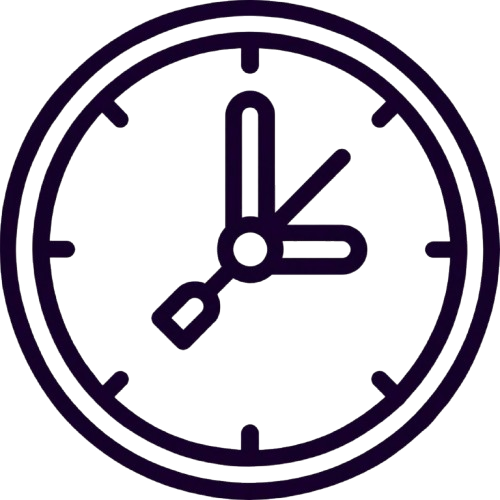
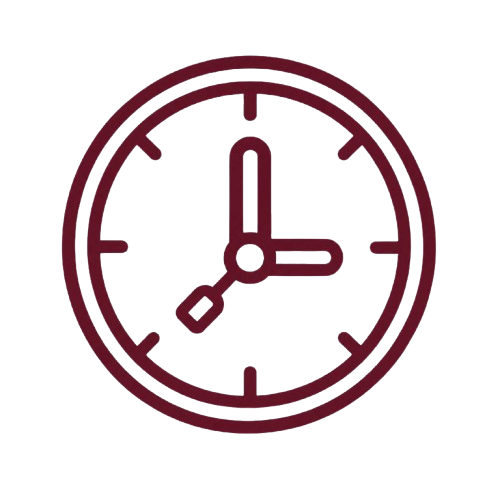
almost finishing user panel

diff --git a/userpanel/panel_options/dashboard.py b/userpanel/panel_options/dashboard.py
@@ -7,6 +7,7 @@ from options.back import *
 from userpanel.time import *
 from back_panel.card1 import *
 from userpanel.panel_options.treeveiw import *
+from userpanel.panel_options.search import se
 FRAMES="#5A1E2A"
 TEXTS="#F7F1E5"
 ENTRIE="#89977D"
@@ -33,33 +34,43 @@ def dash(fr2pw,userc):
     lbl1.place(x=50,y=100)
     entry=CTkEntry(fr2pw,fg_color=TEXTS,text_color=FRAMES,placeholder_text="search your post... ",placeholder_text_color=PLACETEXTS,border_color=PLACETEXTS,border_width=3,font=("GROSTE",15),width=200,height=50,corner_radius=16,textvariable=s_var)
     entry.place(x=370,y=40)
-    # entry.bind("<KeyRelease>", lambda event: search(event, userc))
-    cards3(fr2pw,userc)
+    entry.bind("<KeyRelease>", lambda event: se(s_var, userc,tr,event))
+    tr=cards3(fr2pw,userc)
 def cards3(fr2pw,userc):
     pack=openj()
     packs=len(readj(pack,userc))
-    fr1=CTkFrame(fr2pw,corner_radius=13,width=160,height=160,fg_color=TEXTS,border_color=FRAMES,border_width=3)
-    fr1.place(x=90,y=150)
-    fr2=CTkFrame(fr2pw,corner_radius=16,width=160,height=160,fg_color=TEXTS,border_color=FRAMES,border_width=3)
-    fr2.place(x=280,y=150)
-    fr3=CTkFrame(fr2pw,corner_radius=16,width=160,height=160,fg_color=TEXTS,border_color=FRAMES,border_width=3)
-    fr3.place(x=470,y=150)
-    lbl=CTkLabel(fr1,text="All packages",text_color=FRAMES,font=("Pixelhands",20))
-    lbl.place(y=130,relx=0.5,anchor="center")
-    lbl1=CTkLabel(fr2,text="On the way",text_color=FRAMES,font=("Pixelhands",20))
-    lbl1.place(y=130,relx=0.5,anchor="center")
-    lbl2=CTkLabel(fr3,text="Delivered",text_color=FRAMES,font=("Pixelhands",20))
-    lbl2.place(y=130,relx=0.5,anchor="center")
-    tick=load_photo("assests/images/tick.png",fr1,(30,30),widget="label",corner=30)
+    fr1=CTkFrame(fr2pw,corner_radius=13,width=130,height=130,fg_color=TEXTS,border_color=FRAMES,border_width=3)
+    fr1.place(x=30,y=170)
+    fr2=CTkFrame(fr2pw,corner_radius=16,width=130,height=130,fg_color=TEXTS,border_color=FRAMES,border_width=3)
+    fr2.place(x=200,y=170)
+    fr3=CTkFrame(fr2pw,corner_radius=16,width=130,height=130,fg_color=TEXTS,border_color=FRAMES,border_width=3)
+    
+    fr3.place(x=370,y=170)
+    fr4=CTkFrame(fr2pw,corner_radius=16,width=130,height=130,fg_color=TEXTS,border_color=FRAMES,border_width=3)
+    fr4.place(x=540,y=170)
+    lbl=CTkLabel(fr1,text="All packages",text_color=FRAMES,font=("Pixelhands",15))
+    lbl.place(y=100,relx=0.5,anchor="center")
+    lbl1=CTkLabel(fr2,text="On the way",text_color=FRAMES,font=("Pixelhands",15))
+    lbl1.place(y=100,relx=0.5,anchor="center")
+    lbl2=CTkLabel(fr3,text="Delivered",text_color=FRAMES,font=("Pixelhands",15))
+    lbl2.place(y=100,relx=0.5,anchor="center")
+    lbl3=CTkLabel(fr4,text="Unknown",text_color=FRAMES,font=("Pixelhands",15))
+    lbl3.place(y=100,relx=0.5,anchor="center")
+    tick=load_photo("assests/images/tick.png",fr1,(35,35),widget="label",corner=30)
     tick.place(y=20,x=10)
     track=load_photo("assests/images/track.png",fr2,(35,35),widget="label",corner=30)
     track.place(y=20,x=10)
-    clock=load_photo("assests/images/clock.png",fr3,(30,30),widget="label",corner=30)
+    clock=load_photo("assests/images/clock.png",fr3,(35,35),widget="label",corner=30)
     clock.place(y=20,x=10)
-    lbl3=CTkLabel(fr1,text=packs,text_color=FRAMES,font=("Pixelhands",40))
-    lbl3.place(y=50,x=100)
-    lbl4=CTkLabel(fr2,text="",text_color=FRAMES,font=("Pixelhands",40))
-    lbl4.place(y=50,x=100)
-    lbl5=CTkLabel(fr3,text="",text_color=FRAMES,font=("Pixelhands",40))
-    lbl5.place(y=50,x=100)
-    treeveiw(fr2pw,userc)
+    que=load_photo("assests/images/que.png",fr4,(35,35),widget="label",corner=30)
+    que.place(y=20,x=10)
+    lbl3=CTkLabel(fr1,text=packs,text_color=FRAMES,font=("Pixelhands",30))
+    lbl3.place(y=50,x=90)
+    lbl4=CTkLabel(fr2,text="",text_color=FRAMES,font=("Pixelhands",30))
+    lbl4.place(y=50,x=90)
+    lbl5=CTkLabel(fr3,text="",text_color=FRAMES,font=("Pixelhands",30))
+    lbl5.place(y=50,x=90)
+    lbl6=CTkLabel(fr4,text="",text_color=FRAMES,font=("Pixelhands",30))
+    lbl6.place(y=50,x=90)
+    tr=treeveiw(fr2pw,userc)
+    return tr

diff --git a/userpanel/upanel.py b/userpanel/upanel.py
@@ -42,8 +42,8 @@ def buttonsfr1(fr1pw,fr2pw,userc):
     btn2.place(relx=0.5,anchor="center",y=300)
     btn3=CTkButton(fr1pw,text="Delete package",font=("Nova Bomb SemBd",20),text_color=TEXTS,fg_color=FRAMES,hover_color=HOVER,corner_radius=16,cursor="hand2",width=170,height=50,command=lambda:cleanfde(fr2pw,userc))
     btn3.place(relx=0.5,anchor="center",y=370)
-    btn4=CTkButton(fr1pw,text="Search",font=("Nova Bomb SemBd",20),text_color=TEXTS,fg_color=FRAMES,hover_color=HOVER,corner_radius=16,cursor="hand2",width=170,height=50)
-    btn4.place(relx=0.5,anchor="center",y=440)
+    # btn4=CTkButton(fr1pw,text="Search",font=("Nova Bomb SemBd",20),text_color=TEXTS,fg_color=FRAMES,hover_color=HOVER,corner_radius=16,cursor="hand2",width=170,height=50)
+    # btn4.place(relx=0.5,anchor="center",y=440)
     
 def run(window,userc):
     # window=swindowp()

diff --git a/userpanel/panel_options/search.py b/userpanel/panel_options/search.py
@@ -1,0 +1,35 @@
+import os
+import sys
+BASE_DIR=os.path.dirname(os.path.dirname(__file__))
+sys.path.insert(0,BASE_DIR)
+from _modules import *
+from options.back import *
+from back_panel.card1 import *
+FRAMES="#5A1E2A"
+TEXTS="#F7F1E5"
+ENTRIE="#89977D"
+PLACETEXTS="#5A1E2A"
+HOVER="#6F7C63"
+def se(s_var,userc,tr,event):
+    srch=s_var.get()
+    op=openj()
+    read=readj(op,userc)
+    re=[]
+    for r in read:
+        if srch in r["tracking"]:
+            re.append(r)
+    for i in tr.get_children():
+        tr.delete(i)
+    for r in re:
+        tr.insert(
+            "",
+            "end",
+            text="📦",
+            values=(
+                r["tracking"],
+                r["reciever"],
+                r["destenation"],
+                r["Transpost"],
+                r["status"],
+            )
+            )

diff --git a/userpanel/panel_options/treeveiw.py b/userpanel/panel_options/treeveiw.py
@@ -65,3 +65,4 @@ def treeveiw(fr2pw, userc):
             image=icon,
         )
     t.place(relx=0.5, anchor="center", y=580, height=300, width=700)
+    return t
